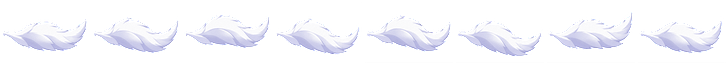
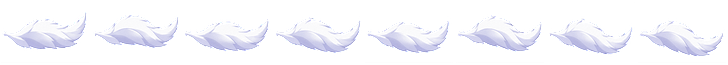
fix(gumi): 꼬리 작게 · 버벅임 · 색 그라데이션 (대표 플레이 피드백) + 누수 검사를 새 꼬리 풀에 맞춤 (c21ac76b 리뷰)
1. 크기: 평소 84 → 약 67px (0.8배), 9꼬리 무적 1.45 → 1.2 (0.96)
2. 버벅임 원인 둘
   - 시트 8칸이 움직임 순서가 아니었다 (끝 높이 25 → 28 → 24 → 33 → 28 → 35 → 21 → 28, 이웃 칸 겹침 0.57~0.89) —
     끝 높이 순으로 다시 늘어놓고 yoyo 로 14fps (예전 10fps 순환)
   - 꼬리 자리를 onUpdate(물리 이동 전)에서 맞춰 걸을 때 한 프레임 늦게 따라갔다 — POST_UPDATE 로 (글리치 29c778e2 와 같은 원인)
   - 밑동 정렬은 이미 칸마다 맞아 있었다 (가공 때 확인)
3. 끝 색 마스크를 몸 실루엣 × 밑동 0.2 → 끝 1.0 그라데이션으로 다시 구움 — 밝은 털 가닥은 0.6 배로 비워 결이 보이게
- fx-leak-check [13] · [14]: 예전 가산 fx_proc_streak 9개 대신 실제 GumiAbility 꼬리 풀 (18장 한 번 · 3회 쌓고 숨김 동안 안 늘어남 · 9쌍 · 숨김 ·
  normal · 블룸 0 · onDestroy 전부 파기 · POST_UPDATE 해제). 스텁: events.on 의 this · POST_UPDATE · add.tileSprite · anims.stop

Claude-Session: https://claude.ai/code/session_01H759ezATBUJ3or3xc2pcSU

diff --git a/scripts/fx-leak-check.ts b/scripts/fx-leak-check.ts
@@ -16,7 +16,8 @@ import { LegacyAbility } from '../src/abilities/LegacyAbility';
 import { TedAbility, HEAD_ORIGIN_Y } from '../src/abilities/TedAbility';
 import { RedAbility, ROAR_RING_LIFE_MS } from '../src/abilities/RedAbility';
 import { HeidiAbility } from '../src/abilities/HeidiAbility';
-import { MAEHWA_PARAMS, LEGACY_PARAMS, K_PARAMS, TED_PARAMS, RED_PARAMS, RED_SHEETS, HEIDI_PARAMS, HEIDI_SHEETS, HEIDI_WEAPON_SHEET } from '../src/config/abilityParams';
+import { GumiAbility } from '../src/abilities/GumiAbility';
+import { MAEHWA_PARAMS, LEGACY_PARAMS, K_PARAMS, TED_PARAMS, RED_PARAMS, RED_SHEETS, HEIDI_PARAMS, HEIDI_SHEETS, HEIDI_WEAPON_SHEET, GUMI_PARAMS, GUMI_DEFERRED_SHEETS } from '../src/config/abilityParams';
 import { beam, fxSprite, getFxStats, preloadFxAssets, preloadFxSheet, playFx, getFxCounters, resetFxCounters, fxPickSheetKey, FX_PARTICLE_ASSETS, FX_ASSET_DIR } from '../src/utils/vfx';
 
 const VOLLEYS = 20;
@@ -344,24 +345,49 @@ async function main() {
   const kSettled = snapshot(kScene);
   console.log(fmt('[17b] K 정리 후', kSettled));
 
-  // ── 상시 가산 이펙트가 블룸 레이어를 붙잡지 않는지 ────────────────────
-  // 블룸 레이어는 depth 가 고정이라 올라간 오브젝트는 자기 depth 를 잃고,
-  // 하나라도 살아 있으면 전체 화면 블룸 패스가 계속 돈다.
-  // 구미 꼬리(9개 상시, 가산)가 여기 올라가 렉과 렌더 순서 붕괴를 일으킨 적이 있다.
-  const persist = [];
-  for (let i = 0; i < 9; i++) {
-    persist.push(fxSprite(scene, 100 + i * 10, 400, 'fx_proc_streak', {
-      rotation: 0, scale: [0.14, 0.14], origin: [0, 0.5],
-      tint: 0xff2200, alpha: 0.9, depth: 3, blend: 'add',
-      lifeMs: 60000, slot: 'gumi_tail', maxConcurrent: 12,
-    }));
+  // ── 구미 꼬리 풀 (v8 c21ac76b · 리뷰) — 9쌍(몸 + 끝)을 시트가 오면 한 번 만들고, 무적이 끝나면 숨겨 재사용한다.
+  // 예전엔 꼬리 9개가 상시 **가산** 이펙트라 블룸 레이어를 붙잡지 않는지만 쟀다 — 이제는 normal Sprite 풀이라
+  // ① 풀은 18장 한 번만 생기고 ② 쌓고 · 무적 · 숨김을 여러 번 돌아도 새로 생기지 않으며 ③ 블룸에 안 올라가고
+  // ④ onDestroy 에서 전부 사라지는지 본다. POST_UPDATE 동기화(syncTails)도 같이 돌린다
+  const gScene = createFakeScene();
+  preloadFxAssets(gScene);
+  for (const f of GUMI_DEFERRED_SHEETS) gScene.textures.__addAsset(fxPickSheetKey(f));
+  gScene.textures.__addAsset('glow_dot');   // 무적 9색 버스트 · 오라가 쓰는 소프트 닷 (캔버스로 굽는 경로는 노드에 document 가 없다)
+  const gPlayer = { x: 180, y: 520, body: { velocity: { x: 0 } }, setDepth() { return this; }, setAlpha() { return this; }, addPermanentSpeed() {} };
+  const none = { getChildren: () => [] };
+  const gApi = { scene: gScene, player: gPlayer, poops: none, goldPoops: none, diamondPoops: none, topazPoops: none, rainbowPoops: none,
+    addAbilityBonus() {}, spawnGoldPoopAt() {}, spawnGoldPoop() {} };
+  const gumi = new GumiAbility(0);
+  gumi.onCreate(gApi);
+  const pool = (gumi as any).tailPool;
+  const poolSprites = pool.length * 2;
+  let poolGrew = 0, visibleMax = 0;
+  for (let cycle = 0; cycle < 3; cycle++) {
+    for (let i = 0; i < GUMI_PARAMS.maxTails; i++) (gumi as any)._addTail(gApi);   // 9번째에 무적
+    gPlayer.body.velocity.x = cycle % 2 ? 240 : -240;
+    gScene.events.emit(Phaser.Scenes.Events.POST_UPDATE);
+    visibleMax = Math.max(visibleMax, pool.filter(t => t.img.visible).length);
+    (gumi as any).invincibleElapsed = 1e9;
+    (gumi as any)._updateInvincibility(gApi);                                         // 무적 끝 → 숨김 (380ms 트윈)
+    await sleep(1500);   // 숨김 트윈 · 무적 끝 파열(bloom 섬광 · 충격파)이 다 끝나도록
+    poolGrew += pool.length * 2 - poolSprites;
   }
-  const persistBloom = snapshot(scene).bloomRefs;
-  persist.forEach(o => o?.destroy());
-  await sleep(200);
-  const persistCleared = snapshot(scene);
-  console.log('상시 가산 9장: bloomRefs=%d (0 이어야 한다), 파기 후 sprites=%d timeouts=%d',
-    persistBloom, persistCleared.sprites, persistCleared.timeouts);
+  const tailSnap = snapshot(gScene);
+  const hiddenAll = pool.every(t => !t.img.visible && !t.tip.visible);
+  const normalAll = pool.every(t => t.img.blendMode === 0 && t.tip.blendMode === 0);
+  // 여우불(onCreate 의 첫 소환)이 만든 스프라이트를 빼고 꼬리 풀만 센다
+  console.log('구미 꼬리 풀: 18장 한 번 (%d) · 3회 쌓고 숨김 동안 새로 생김 %d · 최대 보임 %d · 숨김 %s · normal %s · bloomRefs=%d',
+    poolSprites, poolGrew, visibleMax, hiddenAll, normalAll, tailSnap.bloomRefs);
+  gumi.onDestroy(gApi);
+  await sleep(300);
+  const tailGone = pool.every(t => !t.img.scene && !t.tip.scene);
+  // 해제 확인 — 파기 뒤 POST_UPDATE 를 쏴도 꼬리 동기화가 돌지 않는다 (돌면 파기된 스프라이트를 만진다)
+  let syncAfter = 0;
+  const origSync = (gumi as any)._updateTailPositions;
+  (gumi as any)._updateTailPositions = (...a) => { syncAfter++; return origSync.apply(gumi, a); };
+  gScene.events.emit(Phaser.Scenes.Events.POST_UPDATE);
+  const syncReleased = syncAfter === 0 && (gumi as any).tailApi === null;
+  console.log('구미 꼬리 풀 onDestroy: 전부 파기 %s · POST_UPDATE 해제 %s', tailGone, syncReleased);
 
   // ── 잔상 누락 검사: 매화 1회 발동에서 sweep/잔상 요청 = 생성 이어야 한다 ──
   resetFxCounters();
@@ -2104,7 +2130,7 @@ async function main() {
       seenDirs === TED_PARAMS.chessStackMax && headDot > 0.999],
     ['[T15] 판정 끝점이 보이는 머리끝과 일치 (≤ 1px)', headErr <= 1],
     ['[12] 옅은 알파 + 가산 조합 0건 (밝은 배경에서 묻히는 조합)', faintAdditive.length === 0],
-    ['[13] 상시 가산 이펙트가 블룸 레이어를 붙잡지 않음', persistBloom === 0],
+    ['[13] 구미 꼬리 풀 — 18장 한 번 · 재사용 중 안 늘어남 · 9쌍 보임 · 숨김 · normal · 블룸 0', poolSprites === 18 && poolGrew === 0 && visibleMax === 9 && hiddenAll && normalAll && tailSnap.bloomRefs === 0],
     ['[15a] 레거시 오라·빗줄기·소각이 실제로 떠 있었음',
       legacyPeak.liveSprites + legacyPeak.liveEmitters > 0],
     ['[15b] 레거시 종료 후 기준선 복귀', isZero(legacySettled)],
@@ -2112,7 +2138,7 @@ async function main() {
     // 이미터는 각자 렌더 패스를 갖는 무거운 오브젝트다. 상한이 없던 시절
     // 레거시가 똥 4마리를 동시에 태우며 42개까지 띄웠고 그게 렉의 원인이었다
     ['[16] 파티클 이미터 동시 상한(14) 준수', legacyPeak.liveEmitters <= 14],
-    ['[14] 상시 이펙트 파기 시 보험 타이머까지 회수', persistCleared.timeouts === 0],
+    ['[14] 구미 꼬리 풀 onDestroy — 전부 파기 · POST_UPDATE 해제', tailGone && syncReleased],
     ['[17a] K 초사이언 자기 보너스 재진입 폭주 없음 (2초에 발사 ≤ 5회)', kCascade <= 5],
     ['[17b] K 정리 후 기준선 복귀', isZero(kSettled)],
     // 레드 — 참새가 부순 똥의 보너스(15점)가 발사 간격(50점)을 스스로 넘기는 되먹임.

diff --git a/src/abilities/GumiAbility.ts b/src/abilities/GumiAbility.ts
@@ -26,6 +26,12 @@ const TAIL_SHEETS = GUMI_DEFERRED_SHEETS.slice(3, 5) as readonly string[];   // 
 const TAIL_ORIGIN_X = 0.044;   // 칸 안 밑동 (가공 때 칸마다 맞춤 — proc_tail_sheets.py)
 const TAIL_ORIGIN_YR = 0.508;
 const TAIL_GROW_MS = 300;
+// v8-2 (대표 플레이 피드백 '꼬리가 좀 크다'): 평소 84 → 약 67px, 9꼬리 무적 1.45 → 1.2
+const TAIL_SCALE = 0.8;
+const TAIL_INV_SCALE = 0.8 * 1.2;
+// '움직임이 버벅거린다': 시트 8칸을 끝 높이 순으로 다시 늘어놓고 오가기(yoyo)로 돈다 — 예전엔 칸 순서가 움직임 순서가 아니어서
+// 끝이 ±7px 씩 튀었다. 칸이 한 방향으로 이어지니 프레임레이트를 올려 더 매끄럽게
+const TAIL_FPS = 14;
 const TRAIL_MAX  = 0.45;  // 플레이어 이동 방향 트레일링 최대 각도 (radians)
 
 // ── 여우불 ──────────────────────────────────────────────────────────────
@@ -220,6 +226,10 @@ export class GumiAbility extends BaseAbility {
     for (const f of GUMI_DEFERRED_SHEETS) this.onRainSheet(scene, fxPickSheetKey(f));   // 다시 하기 — 이미 있는 시트
 
     api.player.setDepth(5);
+    // 꼬리 자리는 물리가 몸을 옮긴 **뒤**(POST_UPDATE)에 맞춘다 — onUpdate 는 물리 이동 전이라 걸을 때 꼬리가 한 프레임 늦게
+    // 따라가 덜컹였다 (대표 '버벅거린다', 글리치 외곽선 29c778e2 와 같은 원인)
+    this.tailApi = api;
+    api.scene.events.on(Phaser.Scenes.Events.POST_UPDATE, this.syncTails, this);
 
     // UR 인데 첫 여우불까지 200점을 기다려야 했다 — 시작하자마자 한 번 보여준다
     this.summonFoxFires(api);
@@ -248,6 +258,9 @@ export class GumiAbility extends BaseAbility {
   }
 
   // ── 꼬리 지렁이 파동 업데이트 (매 프레임) ────────────────────────
+  private tailApi: GameSceneAPI | null = null;
+  private syncTails(): void { if (this.tailApi) this._updateTailPositions(this.tailApi); }
+
   private _updateTailPositions(api: GameSceneAPI): void {
     if (this.tails.length === 0) return;
     const { player, scene } = api;
@@ -303,7 +316,7 @@ export class GumiAbility extends BaseAbility {
     // 꼬리 확대 — 밑동을 축으로 길고 두껍게 부푼다
     this.tails.forEach(tl => {
       scene.tweens.killTweensOf([tl.img, tl.tip]);
-      scene.tweens.add({ targets: [tl.img, tl.tip], scaleX: 1.45, scaleY: 1.45, duration: 320, ease: 'Back.easeOut' });
+      scene.tweens.add({ targets: [tl.img, tl.tip], scaleX: TAIL_INV_SCALE, scaleY: TAIL_INV_SCALE, duration: 320, ease: 'Back.easeOut' });
     });
 
     this._createAura(api);
@@ -542,7 +555,6 @@ export class GumiAbility extends BaseAbility {
 
   // ── 매 프레임 ─────────────────────────────────────────────────────
   override onUpdate(api: GameSceneAPI): void {
-    this._updateTailPositions(api);
     if (this.invincibleActive) this._updateInvincibility(api);
     this._updateRain(api);
 
@@ -621,6 +633,8 @@ export class GumiAbility extends BaseAbility {
       api.player.setAlpha(1);
     }
     api.player.setDepth(0); // player depth 원복
+    api.scene.events.off(Phaser.Scenes.Events.POST_UPDATE, this.syncTails, this);
+    this.tailApi = null;
     this.foxFires.forEach(f => { f.img.destroy(); f.core.destroy(); });
     this.foxFires = [];
     this.tailPool.forEach(tl => { tl.img.scene?.tweens.killTweensOf([tl.img, tl.tip]); tl.img.destroy(); tl.tip.destroy(); });
@@ -663,7 +677,7 @@ export class GumiAbility extends BaseAbility {
   /** 꼬리 9쌍 — 몸 Sprite (살랑임 반복) + 끝 Sprite (몸 칸을 따라감 · 9색 틴트). 블렌드 normal */
   private buildTails(scene: Phaser.Scene): void {
     const K = GumiAbility.K;
-    if (!scene.anims.exists('gumi_tail')) scene.anims.create({ key: 'gumi_tail', frames: scene.anims.generateFrameNumbers(K.tail, { start: 0, end: 7 }), frameRate: 10, repeat: -1 });
+    if (!scene.anims.exists('gumi_tail')) scene.anims.create({ key: 'gumi_tail', frames: scene.anims.generateFrameNumbers(K.tail, { start: 0, end: 7 }), frameRate: TAIL_FPS, repeat: -1, yoyo: true });
     for (let i = 0; i < GUMI_PARAMS.maxTails; i++) {
       const ang = TAIL_ANGLE_ORDER[i] ?? Math.PI * 1.5;
       const left = Math.cos(ang) < -0.05;   // 왼쪽으로 뻗는 꼬리는 위아래 뒤집기 — 시트의 '위로 휜' 끝이 왼쪽에서도 위로
@@ -677,11 +691,11 @@ export class GumiAbility extends BaseAbility {
     }
   }
 
-  /** i 번째 꼬리를 보이게 — grow 면 밑동에서 끝으로 뻗어 나온다 (무적 중이면 1.45배) */
+  /** i 번째 꼬리를 보이게 — grow 면 밑동에서 끝으로 뻗어 나온다 (무적 중이면 무적 배율) */
   private showTail(scene: Phaser.Scene, i: number, grow: boolean): void {
     const tl = this.tailPool[i];
     if (!tl || this.tails.includes(tl)) return;
-    const k = this.invincibleActive ? 1.45 : 1;
+    const k = this.invincibleActive ? TAIL_INV_SCALE : TAIL_SCALE;
     scene.tweens.killTweensOf([tl.img, tl.tip]);
     for (const o of [tl.img, tl.tip]) o.setAlpha(1).setScale(grow ? 0.05 : k, k).setVisible(true);
     tl.img.play('gumi_tail');
